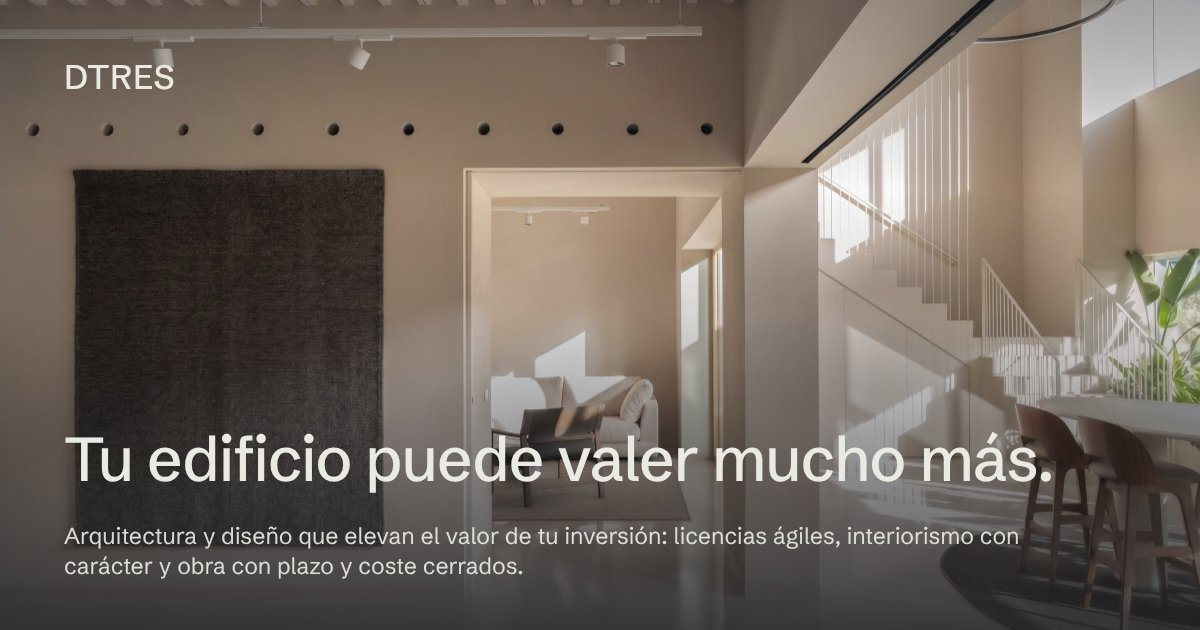
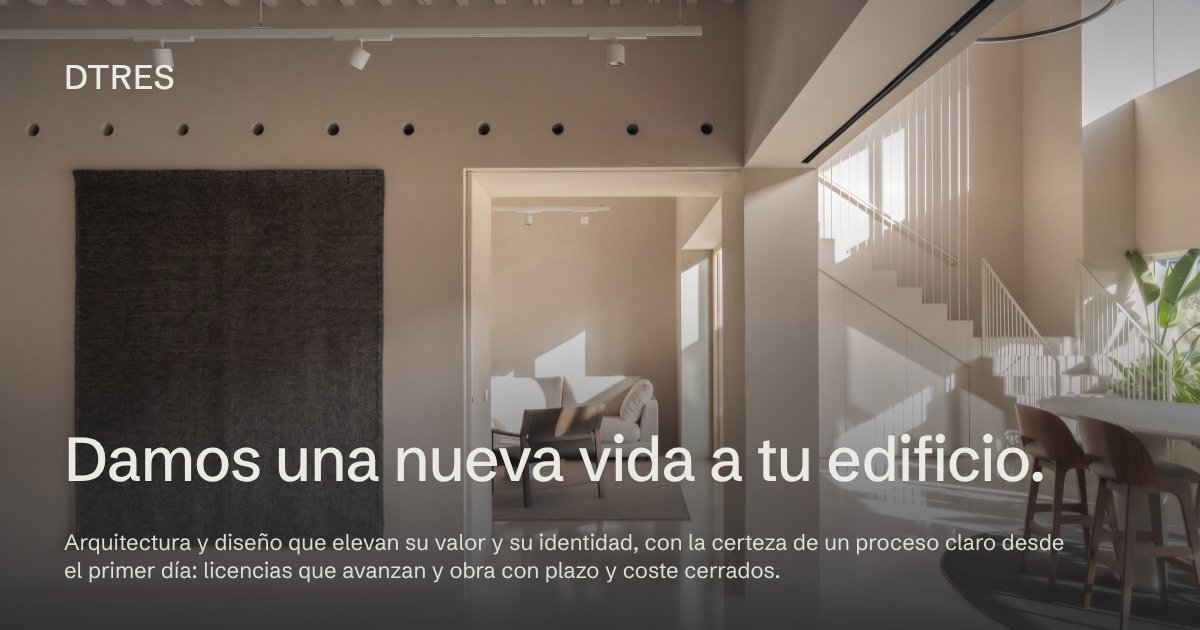
Hero: subtítulo con certeza de proceso claro (ES/CA/EN) e imagen al compartir actualizada
Claude-Session: https://claude.ai/code/session_01GCRyzbLymN6Pgprcy3YpCp

Changed region(s): [[0.0308, 0.6937, 0.8942, 0.7841], [0.0308, 0.8444, 0.8942, 0.9349]]

diff --git a/src/data/content.en.js b/src/data/content.en.js
@@ -12,7 +12,7 @@ export const meta = {
 export const hero = {
   eyebrow: 'Architecture and interior design · Barcelona and Catalonia · Since 2017',
   title: "We give your building a new life.",
-  subtitle: "Architecture and design that raise its value and its identity, with permits that move forward and construction at a fixed time and cost.",
+  subtitle: "Architecture and design that raise its value and its identity, with the certainty of a clear process from day one: permits that move forward and construction at a fixed time and cost.",
   image: { src: '/img/hero-papiol.jpg', alt: 'Papiol showroom and offices in Barcelona, with a double-height space and staircase' },
 };
 

diff --git a/src/data/content.ca.js b/src/data/content.ca.js
@@ -12,7 +12,7 @@ export const meta = {
 export const hero = {
   eyebrow: 'Arquitectura i interiorisme · Barcelona i Catalunya · Des de 2017',
   title: "Donem una nova vida al teu edifici.",
-  subtitle: "Arquitectura i disseny que n'eleven el valor i la identitat, amb llicències que avancen i obra amb termini i cost tancats.",
+  subtitle: "Arquitectura i disseny que n'eleven el valor i la identitat, amb la certesa d'un procés clar des del primer dia: llicències que avancen i obra amb termini i cost tancats.",
   image: { src: '/img/hero-papiol.jpg', alt: 'Showroom i oficines de Papiol a Barcelona, amb doble alçada i escala' },
 };
 

diff --git a/src/data/content.js b/src/data/content.js
@@ -23,7 +23,7 @@ export const meta = {
 export const hero = {
   eyebrow: 'Arquitectura e interiorismo · Barcelona y Catalunya · Desde 2017',
   title: "Damos una nueva vida a tu edificio.",
-  subtitle: "Arquitectura y diseño que elevan su valor y su identidad, con licencias que avanzan y obra con plazo y coste cerrados.",
+  subtitle: "Arquitectura y diseño que elevan su valor y su identidad, con la certeza de un proceso claro desde el primer día: licencias que avanzan y obra con plazo y coste cerrados.",
   image: { src: '/img/hero-papiol.jpg', alt: 'Showroom y oficinas de Papiol en Barcelona, con doble altura y escalera' },
 };
 
